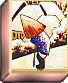
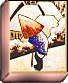
commit tessere

diff --git a/Basic2D_2/Basic2D/Model.cpp b/Basic2D_2/Basic2D/Model.cpp
@@ -113,6 +113,31 @@ bool MyModel::LoadGLTextures(void)
 		SOIL_LOAD_AUTO, SOIL_CREATE_NEW_ID, SOIL_FLAG_INVERT_Y);
 	if (texture[6] == 0) return false;
 
+	texture[7] = SOIL_load_OGL_texture
+	("../Data/tessera7.png",
+		SOIL_LOAD_AUTO, SOIL_CREATE_NEW_ID, SOIL_FLAG_INVERT_Y);
+	if (texture[7] == 0) return false;
+
+	texture[8] = SOIL_load_OGL_texture
+	("../Data/tessera8.png",
+		SOIL_LOAD_AUTO, SOIL_CREATE_NEW_ID, SOIL_FLAG_INVERT_Y);
+	if (texture[8] == 0) return false;
+
+	texture[9] = SOIL_load_OGL_texture
+	("../Data/tessera9.png",
+		SOIL_LOAD_AUTO, SOIL_CREATE_NEW_ID, SOIL_FLAG_INVERT_Y);
+	if (texture[9] == 0) return false;
+
+	texture[10] = SOIL_load_OGL_texture
+	("../Data/tessera10.png",
+		SOIL_LOAD_AUTO, SOIL_CREATE_NEW_ID, SOIL_FLAG_INVERT_Y);
+	if (texture[10] == 0) return false;
+
+	texture[11] = SOIL_load_OGL_texture
+	("../Data/tessera11.png",
+		SOIL_LOAD_AUTO, SOIL_CREATE_NEW_ID, SOIL_FLAG_INVERT_Y);
+	if (texture[11] == 0) return false;
+
 	texture[43] = SOIL_load_OGL_texture
 	("../Data/bordoverde.png",
 		SOIL_LOAD_AUTO, SOIL_CREATE_NEW_ID, SOIL_FLAG_INVERT_Y);

diff --git a/Basic2D_2/Basic2D/Sistema.cpp b/Basic2D_2/Basic2D/Sistema.cpp
@@ -17,7 +17,7 @@ void Sistema::disponi_tessere() {
 	srand(time(NULL));
 	for (int j = 0; j < N_RIGHE_SISTEMA; j++) {
 		for (int i = 0; i < N_COLONNE_SISTEMA; i++) {
-			matrice[i][j] = new Tessera(Img(rand() % 6));
+			matrice[i][j] = new Tessera(Img(rand() % 11));
 		}
 	}
 }

diff --git a/Basic2D_2/Basic2D/tessera.h b/Basic2D_2/Basic2D/tessera.h
@@ -1,6 +1,6 @@
 #pragma once
 
-enum Img { A, B, C, D, E, F };
+enum Img { A, B, C, D, E, F, G, H, I, J, K};
 
 class Tessera
 {
